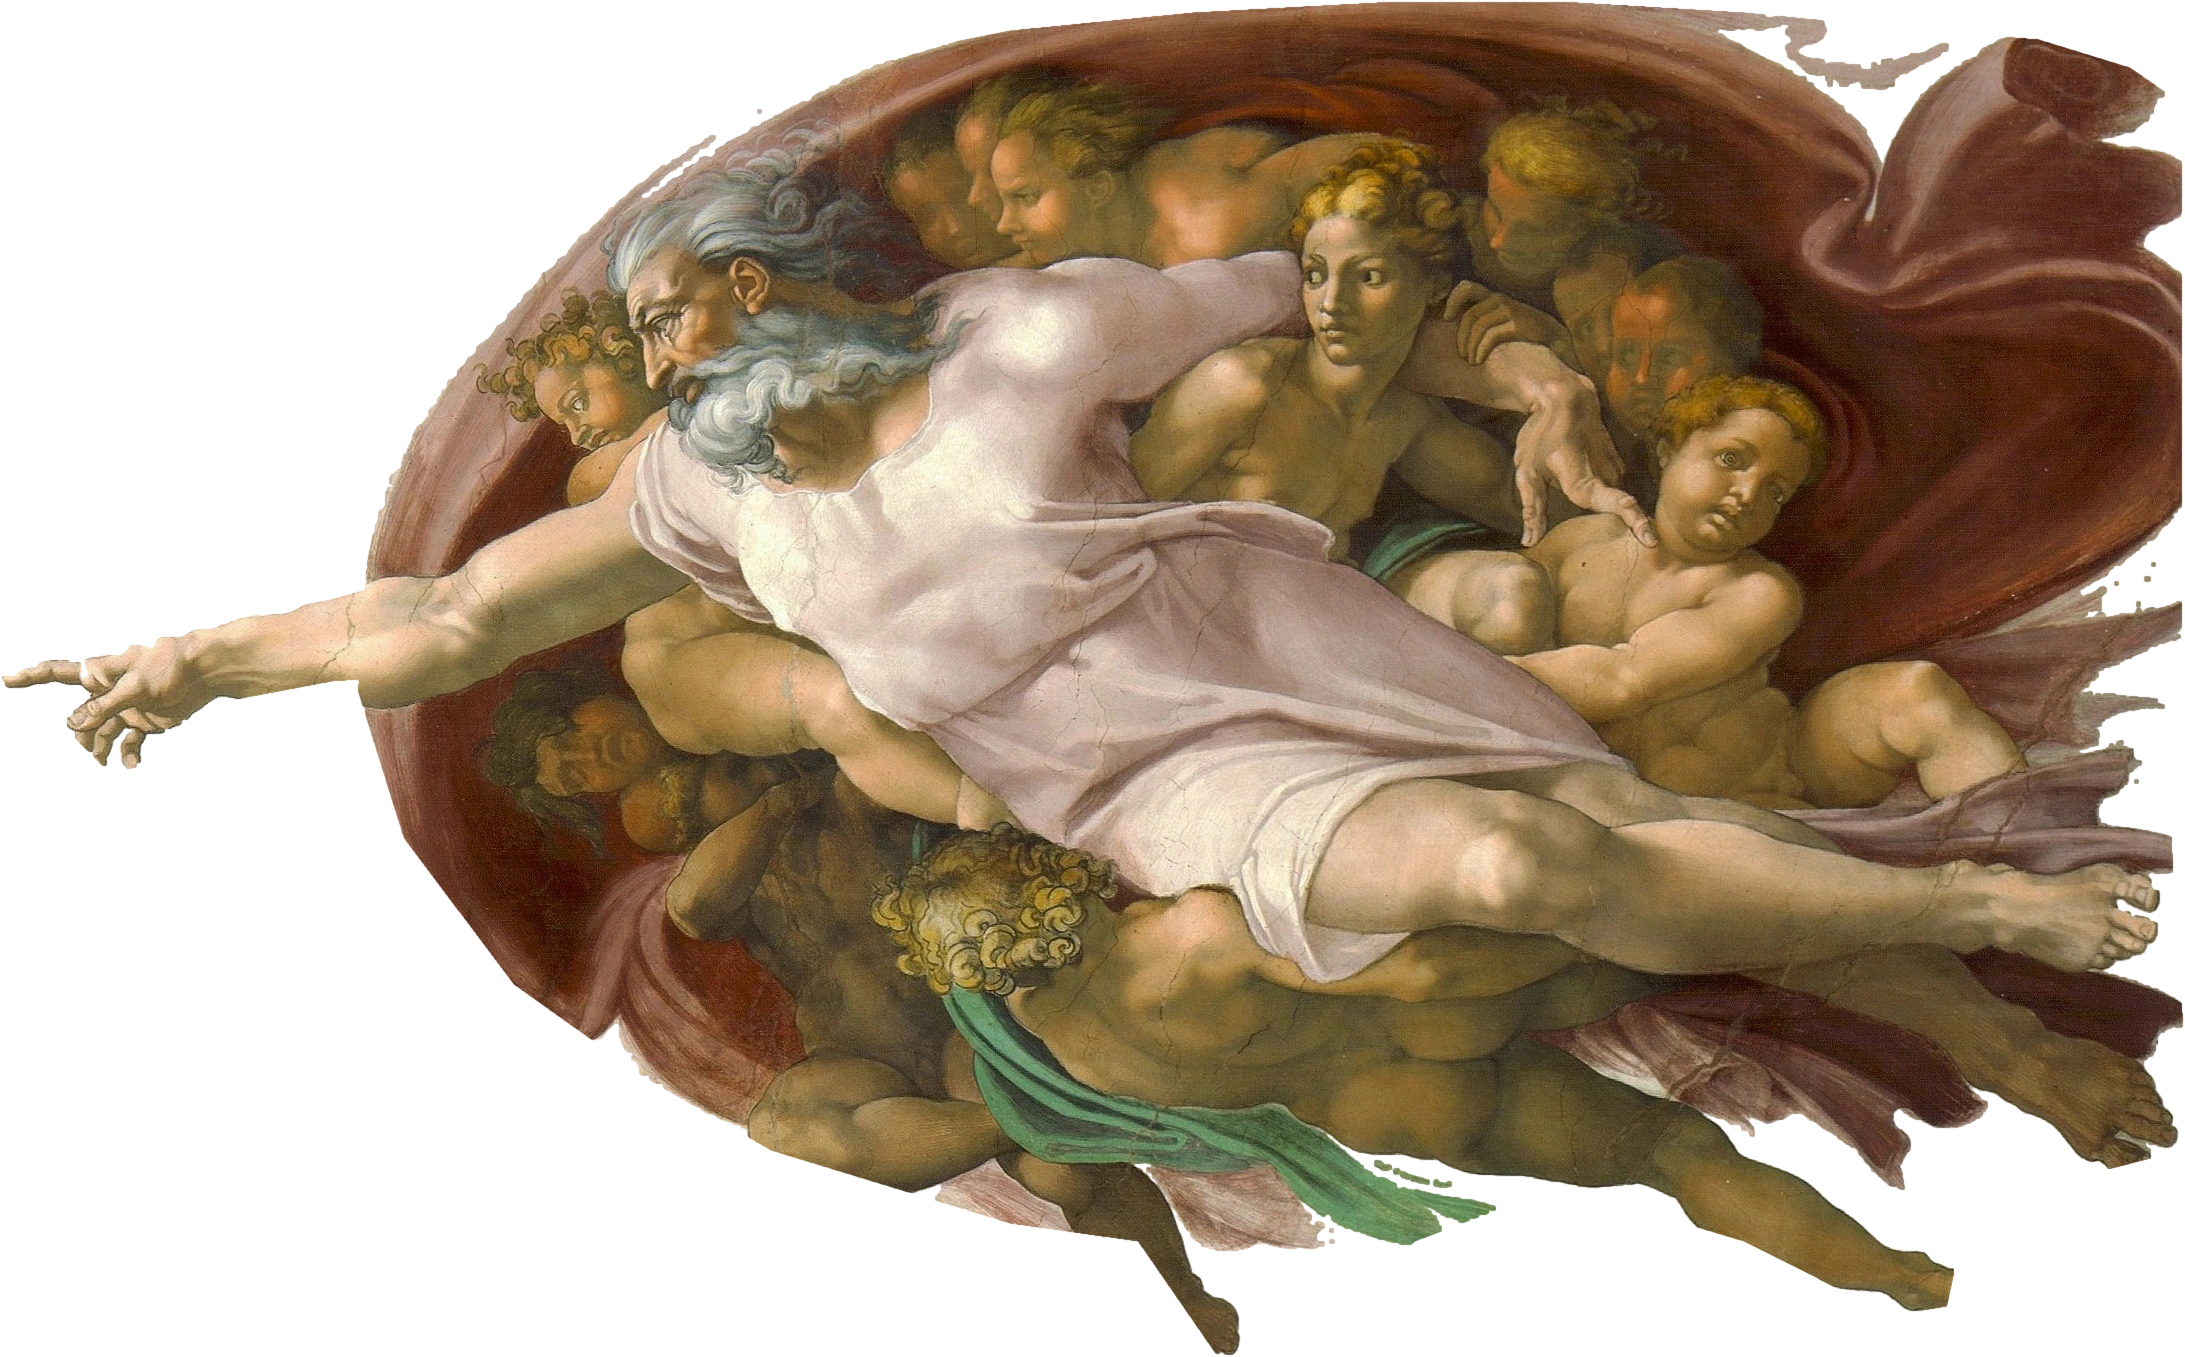
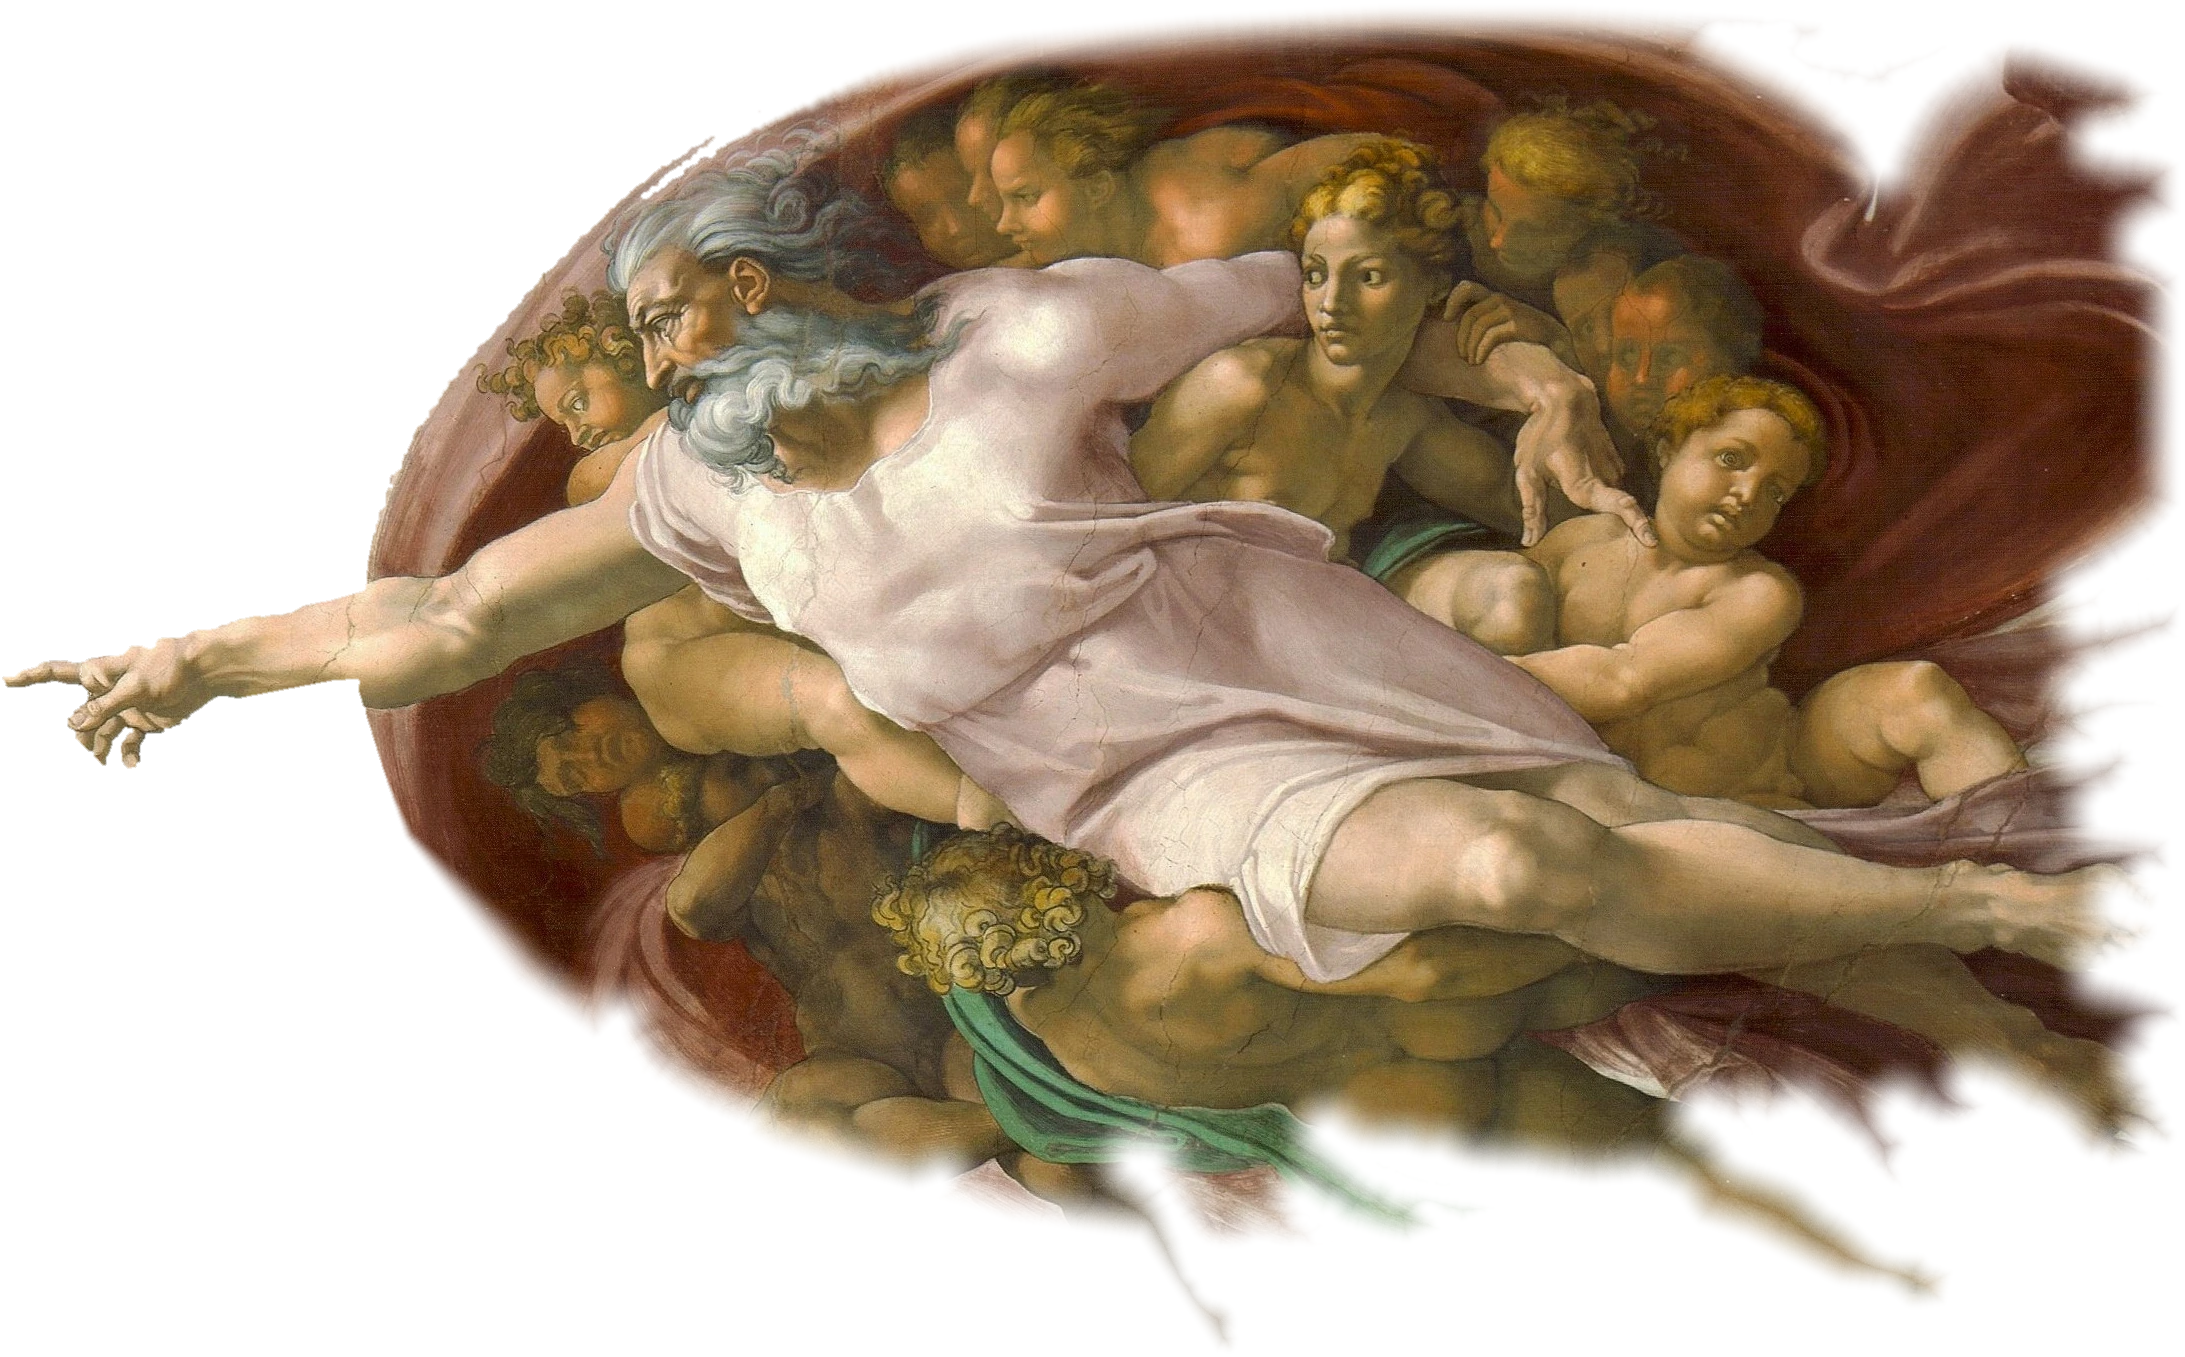
Play Falling Constellations behind its stop and blend the painting

diff --git a/src/scripts/home.js b/src/scripts/home.js
@@ -12,7 +12,27 @@ export async function startPage({ look }) {
 
   // Skip the intro (keyboard and anyone in a hurry): assemble quickly, then move focus to the first project.
   // The skip link and the nav's Projects link both do this. Wired up before the scene loads, so an early press still counts.
-  let scene = null, skipped = false;
+  let scene = null, skipped = false, current = null;
+
+  // A project's live piece plays behind the painting while its stop is current. It loads only once it is first needed,
+  // after the reveal, and never under reduced motion.
+  // shortcut: it keeps running at opacity 0 after you scroll past; unload it if it ever costs frames.
+  const frame = matchMedia('(prefers-reduced-motion: reduce)').matches ? null : document.querySelector('.backdrop');
+  // The piece draws its galaxy at the centre of its own frame, so the frame is centred on God's fingertip
+  // and made big enough to still cover the screen.
+  let placed = '';
+  const place = ([x, y]) => {
+    const key = [Math.round(x), Math.round(y), innerWidth, innerHeight].join();
+    if (!frame || key === placed) return;
+    placed = key;
+    const w = 2 * Math.max(x, innerWidth - x), h = 2 * Math.max(y, innerHeight - y);
+    Object.assign(frame.style, { width: `${w}px`, height: `${h}px`, left: `${x - w / 2}px`, top: `${y - h / 2}px` });
+  };
+  const backdrop = () => {
+    const on = !!placed && html.classList.contains('revealed') && current?.id === frame.dataset.for;
+    if (on && !frame.src) frame.src = frame.dataset.src;
+    html.classList.toggle('backdrop-on', on);
+  };
   for (const a of document.querySelectorAll('a[href="#projects"]')) a.addEventListener('click', e => {
     e.preventDefault();
     skipped = true; scene?.revealNow();
@@ -27,7 +47,8 @@ export async function startPage({ look }) {
       ring.style.opacity = S.revealed ? 0 : 1;
       ring.style.setProperty('--near', S.revealed ? 0 : Math.max(0, 1 - S.cursorDistance / 160).toFixed(2));
       caption.style.opacity = S.revealed ? 0 : Math.max(0, 1 - Math.max(S.progress - .08, 0) * 6).toFixed(2);
-      if (S.reveal > .75) html.classList.add('revealed');   // the card appears once the camera has nearly settled
+      place(S.rest);
+      if (S.reveal > .75 && !html.classList.contains('revealed')) { html.classList.add('revealed'); backdrop(); }   // the card appears once the camera has nearly settled
     },
   }).catch(() => null);
   // No WebGL2, or the painting failed to load: the still painting in CSS.
@@ -35,9 +56,8 @@ export async function startPage({ look }) {
   if (skipped) scene.revealNow();
 
   // A spark at the fingertip each time a new project comes to rest.
-  let current = null;
   const io = new IntersectionObserver(entries => {
-    for (const e of entries) if (e.isIntersecting && e.target !== current) { current = e.target; if (html.classList.contains('revealed')) scene.spark(); }
+    for (const e of entries) if (e.isIntersecting && e.target !== current) { current = e.target; backdrop(); if (html.classList.contains('revealed')) scene.spark(); }
   }, { threshold: .6 });
   main.querySelectorAll('.stop').forEach(s => io.observe(s));
 }

diff --git a/tests/e2e/home.spec.ts b/tests/e2e/home.spec.ts
@@ -47,6 +47,7 @@ test('keyboard: the first Tab stop skips to the projects and focuses the feature
   await expect(page.locator(html)).toHaveClass(/revealed/, REVEAL);
   await expect(page.locator(':focus')).toHaveAttribute('href', '/projects/falling-constellations/');
   await expect(page.locator('.stops')).toBeVisible();
+  await expect(page.locator('.stops')).toHaveCSS('opacity', '1'); // the fade-in has finished, so axe measures the real colours
   expect(await axe(page)).toEqual([]);
 });
 
@@ -56,11 +57,34 @@ test('the nav\'s Projects link reveals too', async ({ page }) => {
   await expect(page.locator(html)).toHaveClass(/revealed/, REVEAL);
 });
 
+test('Falling Constellations plays behind its own stop at 50%, and only there', async ({ page }) => {
+  await page.goto('/');
+  const frame = page.locator('iframe.backdrop');
+  await expect(frame).not.toHaveAttribute('src', /.+/); // not loaded during the assembly
+  await page.getByRole('link', { name: 'Skip to the projects' }).click();
+  await expect(page.locator(html)).toHaveClass(/backdrop-on/, REVEAL);
+  await expect(frame).toHaveAttribute('src', 'https://arinb44.github.io/Falling-Constellations/');
+  await expect(frame).toHaveCSS('opacity', '0.5');
+  await expect(frame).toHaveCSS('pointer-events', 'none');
+  // The frame is centred on God's fingertip (left of centre, mid-height) and still covers the whole screen.
+  const box = (await frame.boundingBox())!, { width, height } = page.viewportSize()!;
+  expect(box.x).toBeLessThanOrEqual(0); expect(box.y).toBeLessThanOrEqual(0);
+  expect(box.x + box.width).toBeGreaterThanOrEqual(width); expect(box.y + box.height).toBeGreaterThanOrEqual(height);
+  const cx = (box.x + box.width / 2) / width, cy = (box.y + box.height / 2) / height;
+  expect(cx).toBeGreaterThan(0.3); expect(cx).toBeLessThan(0.45);
+  expect(cy).toBeGreaterThan(0.4); expect(cy).toBeLessThan(0.6);
+  await page.locator('#nfl-predictor').scrollIntoViewIfNeeded();
+  await expect(page.locator(html)).not.toHaveClass(/backdrop-on/);
+  await expect(frame).toHaveCSS('opacity', '0');
+  expect(await axe(page)).toEqual([]);
+});
+
 test('reduced motion: revealed at load', async ({ page }) => {
   await page.emulateMedia({ reducedMotion: 'reduce' });
   await page.goto('/');
   await expect(page.locator(html)).toHaveClass(/revealed/, REVEAL);
   await expect(page.getByRole('heading', { level: 3, name: 'Falling Constellations' })).toBeVisible();
+  await expect(page.locator(html)).not.toHaveClass(/backdrop-on/); // the live piece is motion: left off
 });
 
 test('no WebGL2: the still painting with the revealed layout', async ({ page }) => {

diff --git a/src/scripts/creation.js b/src/scripts/creation.js
@@ -141,7 +141,7 @@ function compile(gl, vs, fs) {
 
 /**
  * look: { glow: 0|1, twinkle: 0|1, spark: [r, g, b] 0..1 }
- * onFrame(state): state = { progress, reveal, revealed, tip: [x, y], anchor: [x, y], cursorDistance, fps, count }
+ * onFrame(state): state = { progress, reveal, revealed, tip: [x, y], rest: [x, y], anchor: [x, y], cursorDistance, fps, count }
  * Returns { revealNow(), spark(), state } or null when WebGL2 is missing (the page shows its still image instead).
  */
 export async function createCreation(canvas, { look, data = '/creation/', onFrame }) {
@@ -198,13 +198,13 @@ export async function createCreation(canvas, { look, data = '/creation/', onFram
   addEventListener('pointermove', e => { if (e.pointerType === 'mouse' || e.pointerType === 'pen') S.pointer = [e.clientX, e.clientY]; });
   document.documentElement.addEventListener('mouseleave', () => { S.pointer = null; });
 
-  function camera(vw, vh) {
+  function camera(vw, vh, r = ease(S.reveal)) {
     // Following: the landing front sits at the screen centre.
     const [fx, fy] = pointAt(Math.min(Math.max((S.progress - .12) / .8, 0), 1)), zIn = Math.min(ZOOM_IN, vw / 520);
     // Revealed: the whole painting fits the right of the screen, leaving the left for the project.
     const narrow = vw < 900;   // M4: zoomed in or a narrow window: painting on top, the card below
     const rx0 = vw * (narrow ? .04 : .36), rx1 = vw * (narrow ? .96 : .98), ry0 = vh * (narrow ? .14 : .05), ry1 = vh * (narrow ? .52 : .95);
-    const zOut = Math.min((rx1 - rx0) / w, (ry1 - ry0) / h), r = ease(S.reveal);
+    const zOut = Math.min((rx1 - rx0) / w, (ry1 - ry0) / h);
     return { cx: fx + (w / 2 - fx) * r, cy: fy + (h / 2 - fy) * r,
              ax: vw / 2 + ((rx0 + rx1) / 2 - vw / 2) * r, ay: vh / 2 + ((ry0 + ry1) / 2 - vh / 2) * r,
              z: Math.exp(Math.log(zIn) + (Math.log(zOut) - Math.log(zIn)) * r) };
@@ -228,6 +228,8 @@ export async function createCreation(canvas, { look, data = '/creation/', onFram
 
     const cam = camera(vw, vh), view = [2 * cam.z / vw, -2 * cam.z / vh, 2 * (cam.ax - cam.cx * cam.z) / vw - 1, 1 - 2 * (cam.ay - cam.cy * cam.z) / vh];
     S.tip = [(meta.fingertip[0] - cam.cx) * cam.z + cam.ax, (meta.fingertip[1] - cam.cy) * cam.z + cam.ay];
+    const rest = camera(vw, vh, 1);   // where the fingertip sits once fully revealed (the home page centres a project's backdrop on it)
+    S.rest = [(meta.fingertip[0] - rest.cx) * rest.z + rest.ax, (meta.fingertip[1] - rest.cy) * rest.z + rest.ay];
     gl.viewport(0, 0, canvas.width, canvas.height);
     gl.clearColor(0, 0, 0, 0); gl.clear(gl.COLOR_BUFFER_BIT);
 

diff --git a/src/styles/creation.css b/src/styles/creation.css
@@ -7,6 +7,9 @@ a { color: inherit; }
 :focus-visible { outline: 2px solid var(--focus); outline-offset: 3px; border-radius: 2px; }
 
 #scene { position: fixed; inset: 0; width: 100vw; height: 100vh; pointer-events: none; }
+/* A project's live piece behind the painting while its stop is current (home.js). Decoration: never takes clicks. */
+.backdrop { position: fixed; left: 0; top: 0; width: 100vw; height: 100vh; border: 0; pointer-events: none; opacity: 0; transition: opacity .8s ease-out; }
+html.backdrop-on .backdrop { opacity: .5; }
 .still { display: none; }
 html.static .still { display: block; position: fixed; right: 2vw; top: 50%; width: 62vw; max-height: 90vh; object-fit: contain; transform: translateY(-50%); }
 

diff --git a/scripts/painting.py b/scripts/painting.py
@@ -1,0 +1,63 @@
+"""Prepares the home page's painting from the design agent's image. Run from the project root: python -I scripts/painting.py
+
+Reads   output/creation-redesign/data/whole-group-aa.webp   (never changed)
+Writes  public/creation/whole-group-aa.webp
+
+Two changes:
+1. Closes the notch that the plaster key cut into God's index finger.
+2. Feathers the outer edge so the fresco fades into the ground instead of ending in a hard cut.
+   The feather is narrow along the arm (it has to stay crisp up close) and wide everywhere else.
+"""
+import numpy as np
+from PIL import Image
+from scipy import ndimage
+
+SRC = 'output/creation-redesign/data/whole-group-aa.webp'
+OUT = 'public/creation/whole-group-aa.webp'
+PATH = [(690, 315), (560, 545), (390, 600), (215, 650), (2, 676)]  # the arm, as in src/scripts/creation.js
+FINGER = (20, 630, 140, 710)   # x0, y0, x1, y1 around the index finger (crop px)
+NEAR, FAR = 3, 55              # feather width in px: on the arm, and far from it
+ARM, AWAY = 150, 420           # distance from the arm path over which the width grows
+
+
+def smoothstep(a, b, x):
+    t = np.clip((x - a) / (b - a), 0, 1)
+    return t * t * (3 - 2 * t)
+
+
+def distance_to_path(w, h):
+    yy, xx = np.mgrid[0:h, 0:w].astype(np.float32)
+    best = np.full((h, w), np.inf, np.float32)
+    for (ax, ay), (bx, by) in zip(PATH, PATH[1:]):
+        dx, dy = bx - ax, by - ay
+        u = np.clip(((xx - ax) * dx + (yy - ay) * dy) / (dx * dx + dy * dy), 0, 1)
+        best = np.minimum(best, np.hypot(ax + dx * u - xx, ay + dy * u - yy))
+    return best
+
+
+def main():
+    im = np.asarray(Image.open(SRC).convert('RGBA')).astype(np.float32)
+    rgb, alpha = im[..., :3], im[..., 3] / 255
+    h, w = alpha.shape
+
+    # 1. The finger: a morphological closing fills the notch; its colour is already there (the source bleeds colour outward).
+    x0, y0, x1, y1 = FINGER
+    solid = alpha[y0:y1, x0:x1] > .5
+    disc = np.hypot(*np.mgrid[-9:10, -9:10]) <= 9
+    closed = ndimage.binary_closing(solid, structure=disc, border_value=0)
+    filled = closed & ~solid
+    alpha[y0:y1, x0:x1][filled] = 1
+    assert 0 < filled.sum() < 400, f'unexpected finger fill: {filled.sum()} px'
+
+    # 2. The feather: alpha ramps from 0 at the edge to 1 at `width` px inside.
+    inside = ndimage.distance_transform_edt(alpha > .5)
+    width = NEAR + (FAR - NEAR) * smoothstep(ARM, AWAY, distance_to_path(w, h))
+    alpha = np.minimum(alpha, smoothstep(0, 1, inside / width))
+
+    out = np.dstack([rgb, alpha * 255]).round().astype(np.uint8)
+    Image.fromarray(out, 'RGBA').save(OUT, quality=90, method=6, exact=True)   # exact: keep colour under transparent pixels
+    print(f'finger: filled {filled.sum()} px; wrote {OUT}')
+
+
+if __name__ == '__main__':
+    main()

diff --git a/output/creation-site/progress.md b/output/creation-site/progress.md
@@ -35,8 +35,14 @@
 
 - 2026-11-14: GitHub's `main` (Initial commit: LICENSE, README) merged into the work branch with unrelated histories allowed, keeping the project README (`16b20fc`, decision #13). Tests on the merged tree: check 0 errors, unit 12/12, Playwright 36/36. Pushed as a fast-forward to `origin/main` and to the work branch (approved; no force-push).
 
+- 2026-11-14: Local `main` (the `Portfolio/` folder) fast-forwarded to `origin/main`; work continues there, not in the worktree.
+- 2026-11-14: Revisions asked by the user after delivery (built, tested, committed on `main` and pushed with approval):
+  - Falling Constellations plays live behind its home page stop at 50% opacity (an `<iframe>` of the demo, loaded after the reveal, off under reduced motion), with the galaxy's centre on God's fingertip (`S.rest` added to `creation.js`).
+  - `scripts/painting.py` rebuilds the painting: the notch in the index finger is closed and the outer edge is feathered (3 px on the arm, up to 55 px elsewhere).
+  - `npm test`: check 0 errors, unit 12/12, Playwright 37/37 (3 repeats: 111/111).
+
 ## Next step
-Ask the user for revisions. Open follow-ups are in `summary.md` section 8 (placeholders; schema names).
+Ask the user for further revisions. Open follow-ups are in `summary.md` section 8.
 
 ## Open questions
 - **Repository:** `https://github.com/arinb44/portfolio` (decision #12). It already has a `main` (f86fe95) that is not in the local history. Remote not added yet; ask before adding and before each push.

diff --git a/output/creation-site/decisions.md b/output/creation-site/decisions.md
@@ -15,3 +15,5 @@
 | 11 | 2026-11-14 | Implementation notes (agent, within the plan; reported) | Shared `Head.astro` instead of a `home` flag on Base; home-only altarpiece components deleted in M1 instead of M2; Playwright uses the real GPU; skip link wired before the scene loads; no-JS shows the finished page |
 | 12 | 2026-11-14 | D3 repository URL | `https://github.com/arinb44/portfolio` |
 | 13 | 2026-11-14 | Getting the project onto GitHub's `main` | Merge GitHub's initial commit into the work (keep its LICENSE, keep the project README), then push to `main`; no force-push |
+| 14 | 2026-11-14 | Falling Constellations in the background | On the home page, behind its own stop only, at 50% opacity; galaxy centre at God's fingertip |
+| 15 | 2026-11-14 | Painting | Close the gap in God's finger; blend the fresco into the background (edge feather) |

diff --git a/README.md b/README.md
@@ -11,6 +11,7 @@ A static Astro site. The home page rebuilds God's group from Michelangelo's *The
 | `npm run build` | Build the static site into `dist/` (fails on invalid project content) |
 | `npm run preview` | Serve the built site |
 | `npm run placeholders` | Create labelled placeholder images for any project image that doesn't exist yet (never overwrites) |
+| `python -I scripts/painting.py` | Rebuild `public/creation/whole-group-aa.webp` from the design agent's image: closes the notch in the index finger and feathers the outer edge (needs numpy, Pillow, scipy; the feather widths are at the top of the script) |
 | `npm test` | Type check, build, unit tests, browser tests |
 | `npm run test:unit` | Unit tests only (Node's built-in runner) |
 | `npm run test:e2e` | Browser tests only (Playwright + axe, against the last build) |
